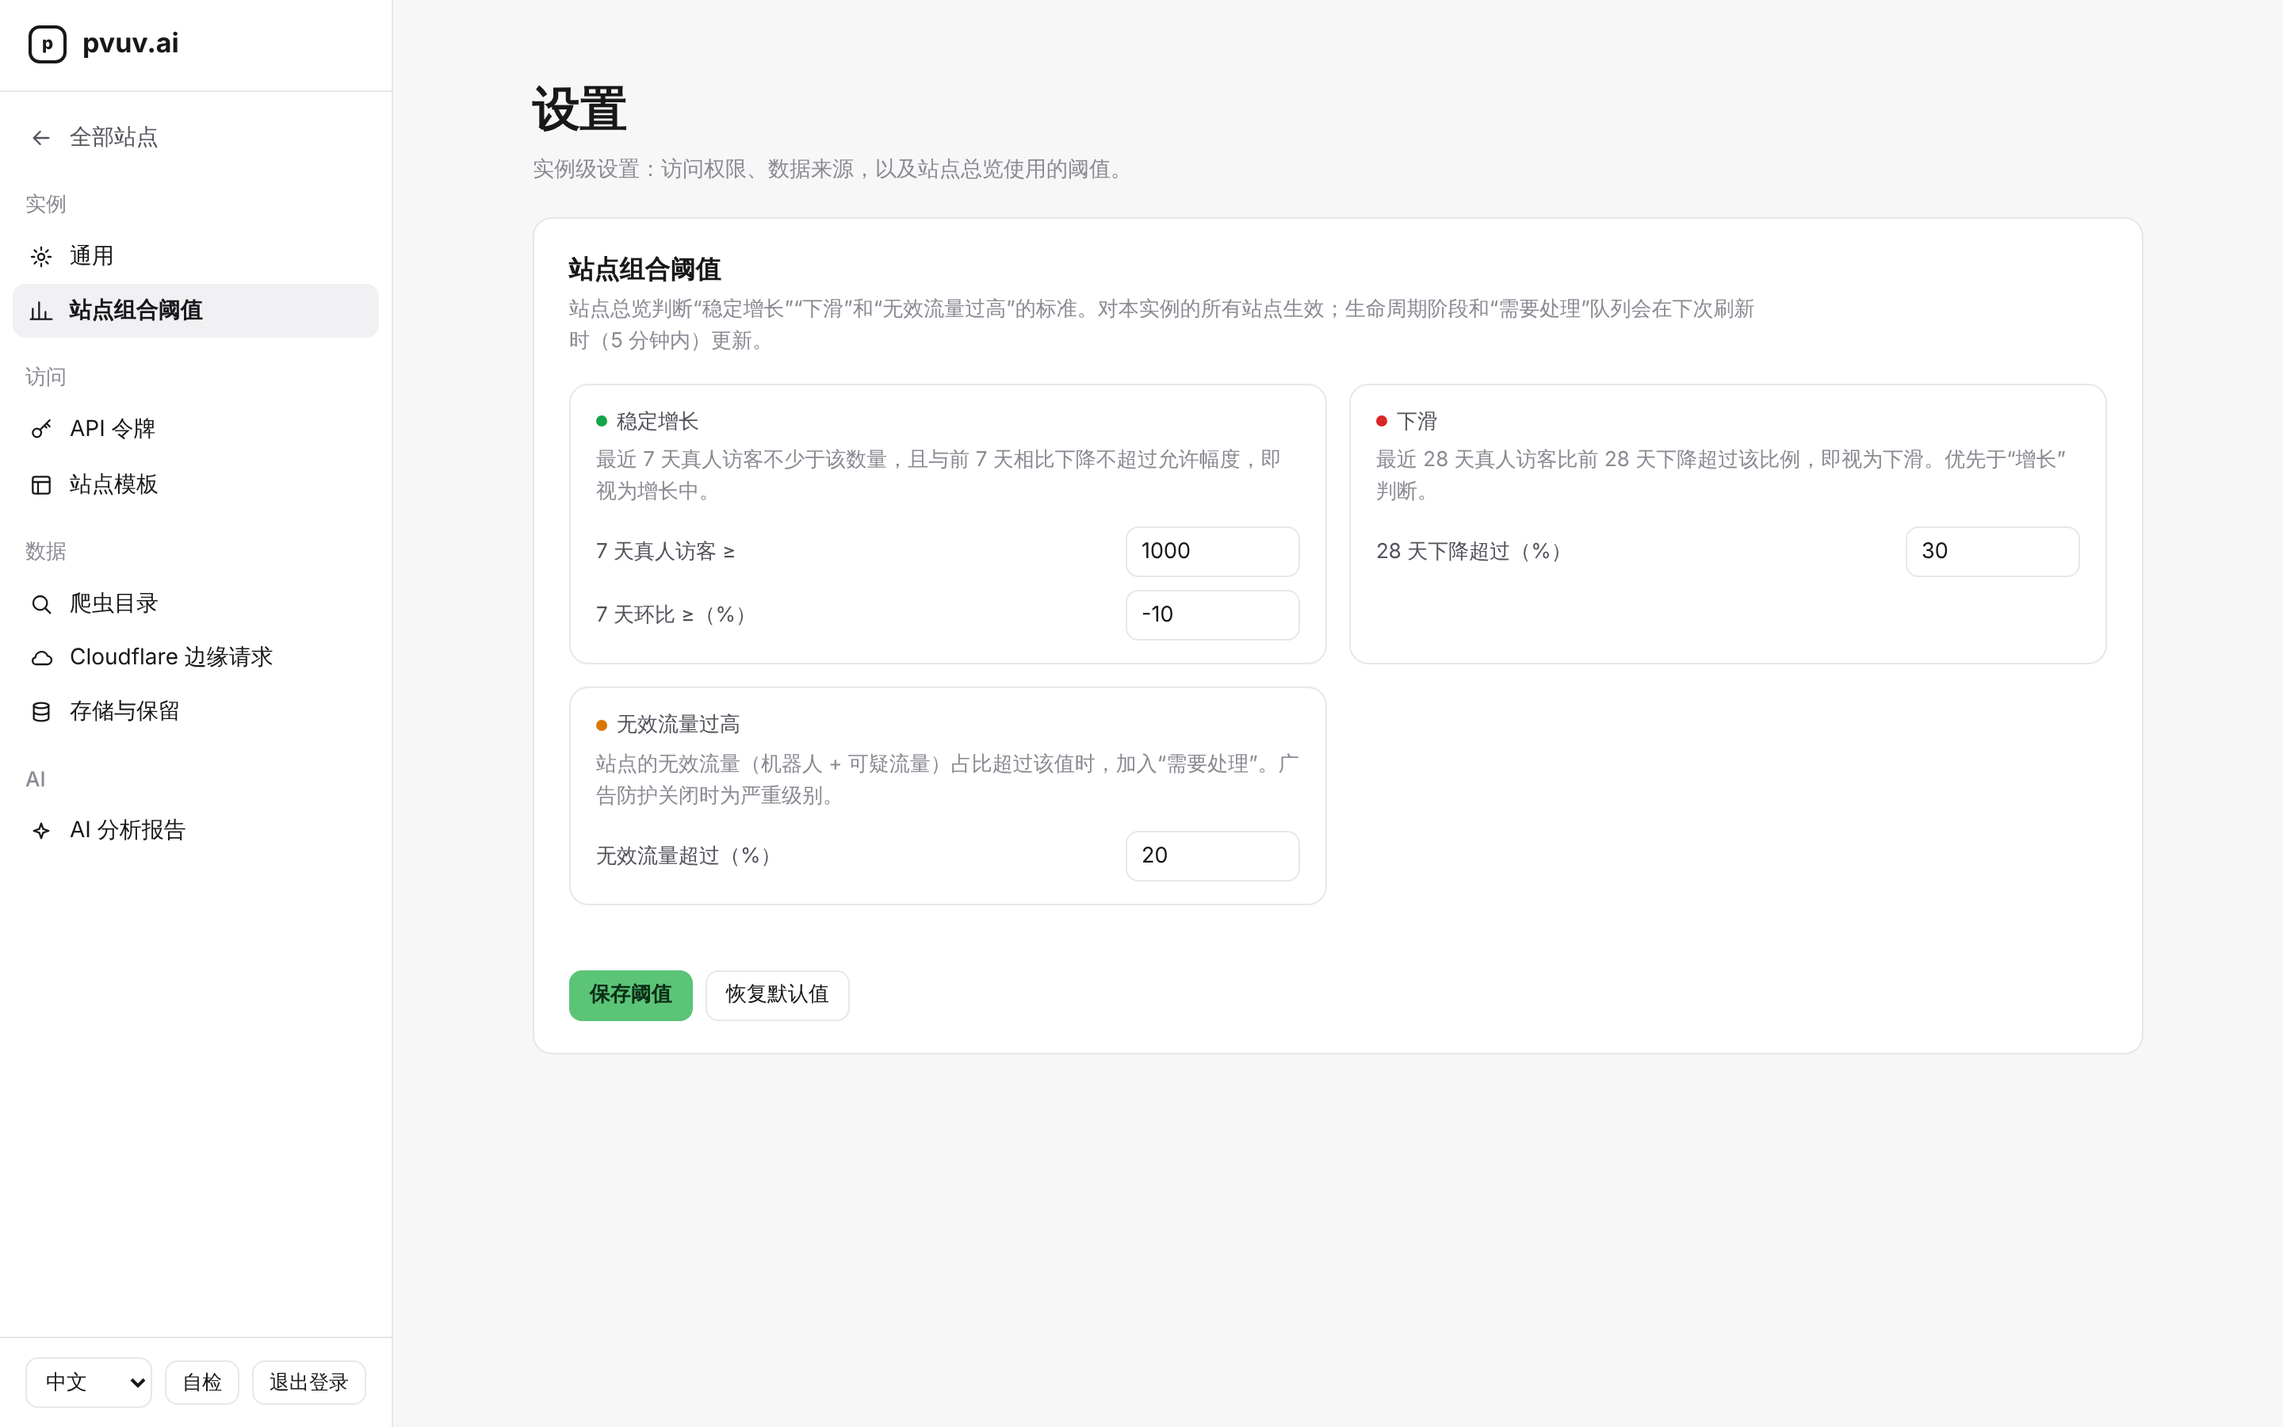
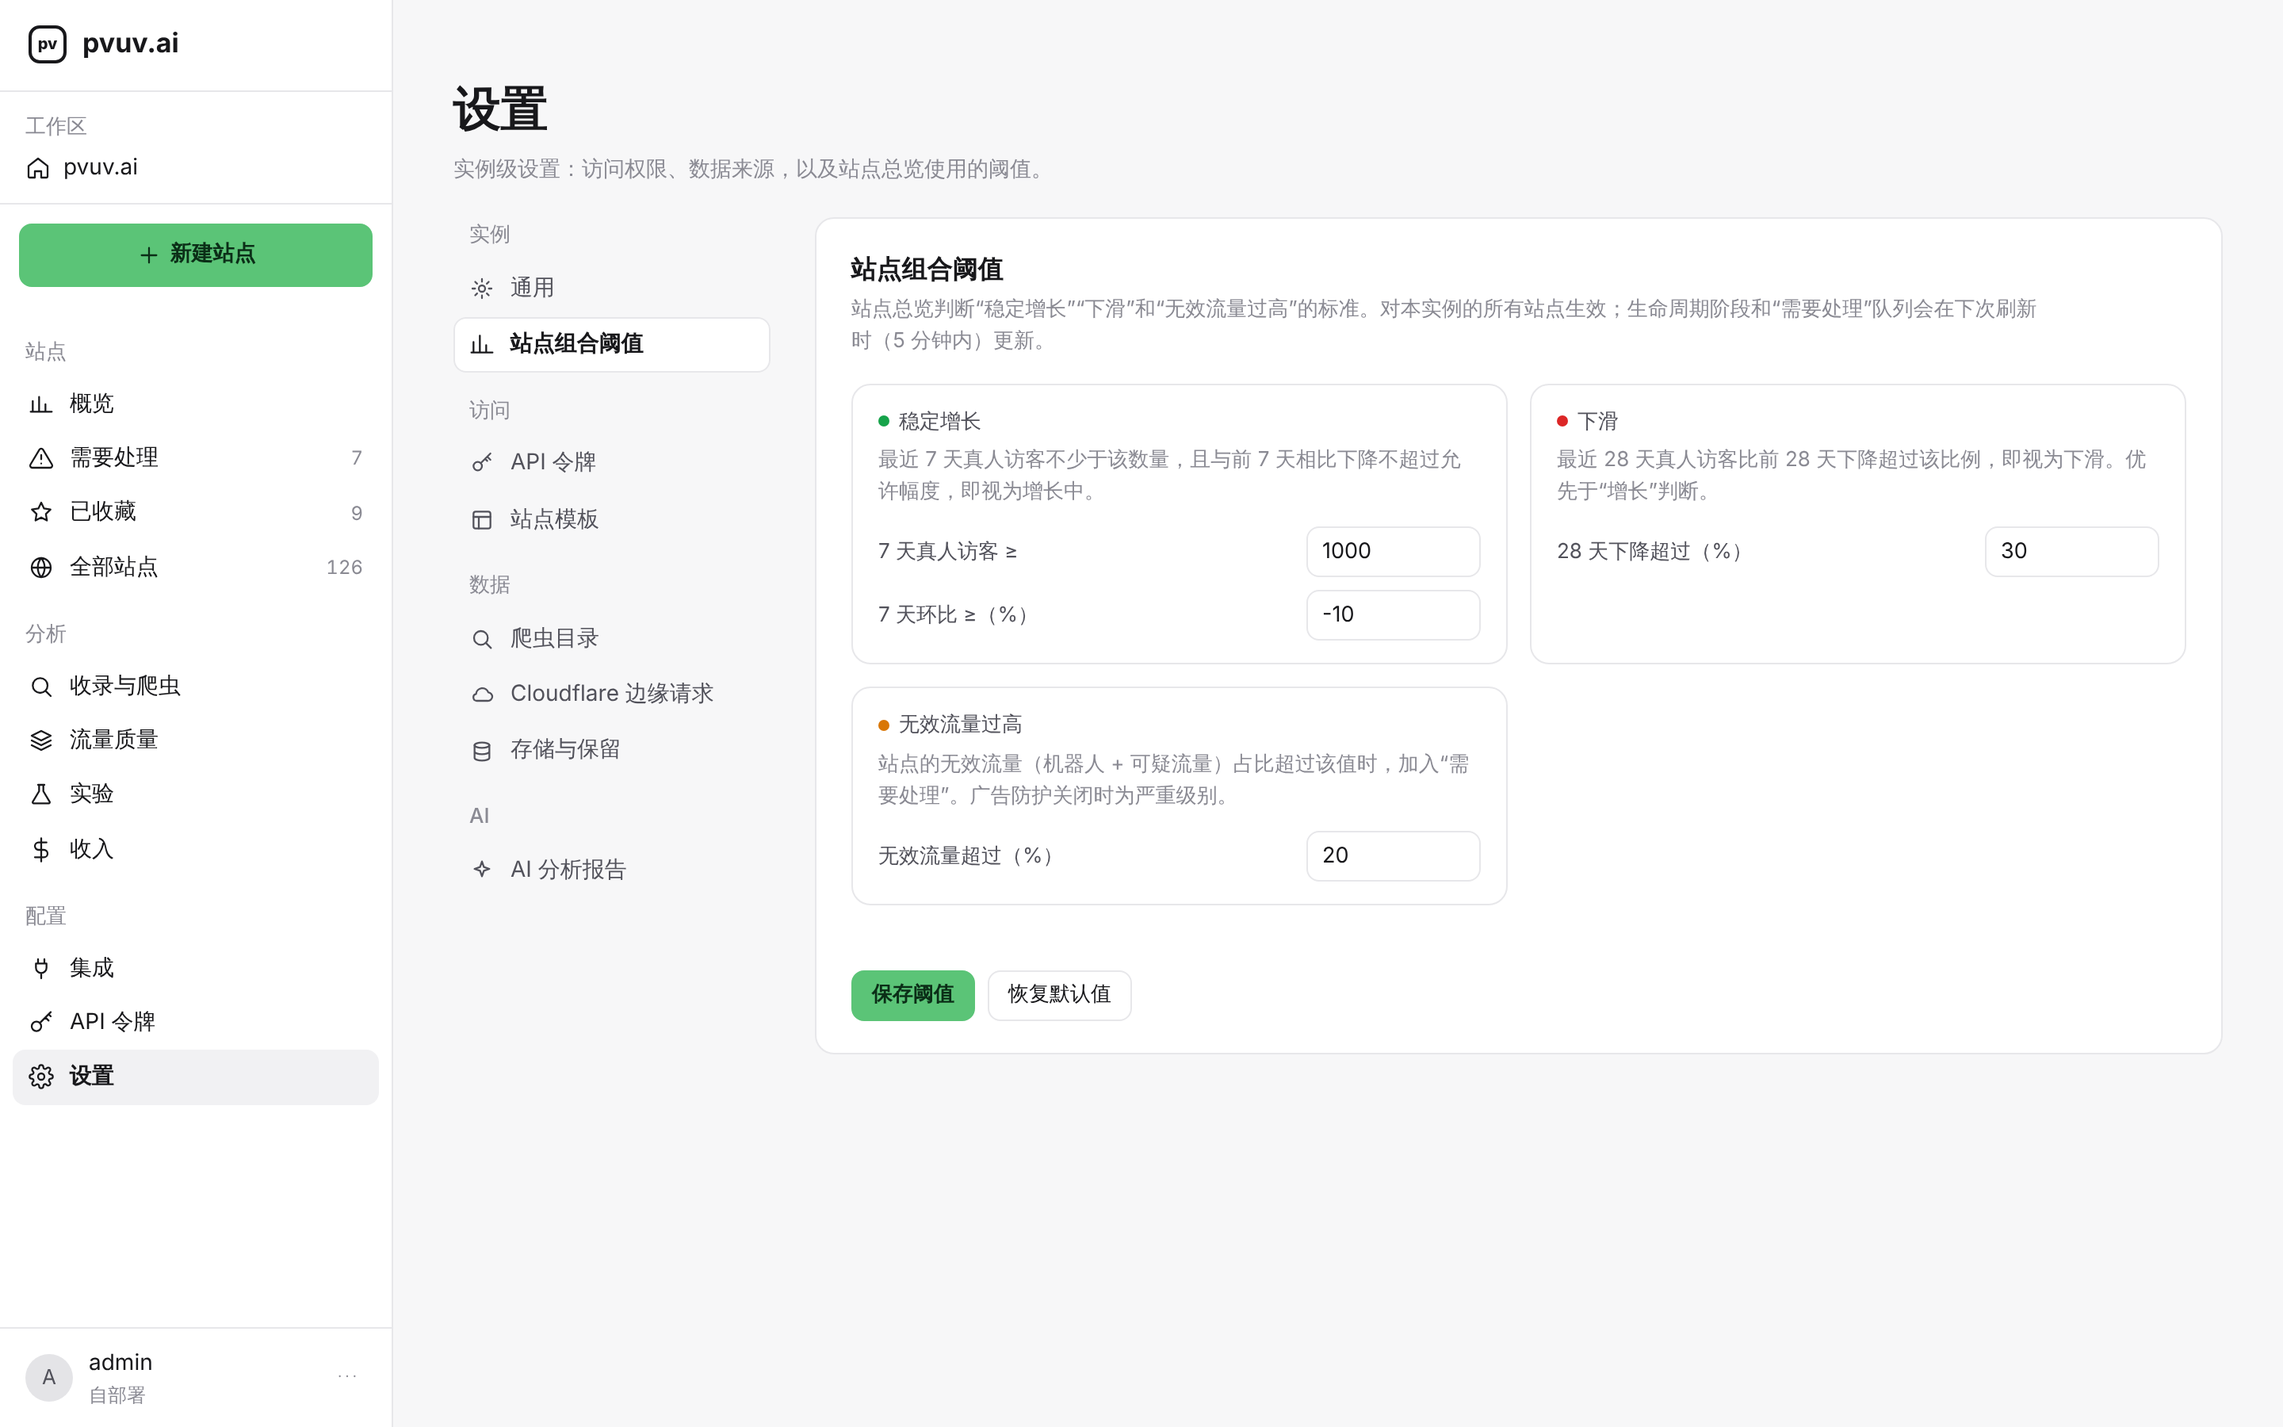
feat(console): settings page inside the shared sidebar shell
settings.html drops its own app sidebar (brand, back link, language,
self-check and sign-out now live in the shell) and keeps the section nav as
an in-page sticky column that turns into underline tabs below 900px. The
shell marks API tokens for #tokens and Settings otherwise; saving branding
clears the shell's cached brand. Screenshots re-shot, plus a narrow one.

Claude-Session: https://claude.ai/code/session_011SnvAmUq6YdQA5WC72TMqt

diff --git a/workers/console/public/settings.html b/workers/console/public/settings.html
@@ -5,50 +5,31 @@
 <meta name="viewport" content="width=device-width, initial-scale=1">
 <title>Settings — pvuv.ai</title>
 <link rel="stylesheet" href="/console.css">
-<style>
-  /* contract light tokens (docs/design/portfolio-ui.md §1), declared here so
-   * the page renders correctly whatever console.css's :root holds */
-  body.p2-set {
-    --bg:#f7f7f8; --surface:#fff; --line:#e7e7ea; --line-soft:#f0f0f2;
-    --text:#18181b; --text-2:#52525b; --mut:#8a8a93;
-    --accent:#3b82f6; --accent-soft:#eaf1fe; --track:#ececef;
-    --cta:#5bc477; --cta-text:#0b2e17;
-    --up:#16a34a; --down:#dc2626; --warn:#d97706;
-    --radius:12px; --radius-sm:8px;
-  }
-</style>
 </head>
 <body class="p2-set">
 <script src="/i18n.js"></script>
+<script src="/js/cmdk.js"></script>
+<script src="/js/shell.js"></script>
 <datalist id="tzlist"></datalist>
-<div class="p2-set-app">
-  <aside class="p2-set-side">
-    <div class="p2-set-logo" id="brand"><span class="mark">pv</span>pvuv</div>
-    <nav class="p2-set-nav" id="setnav" aria-label="Settings sections">
-      <a href="/sites.html" class="back"><svg class="p2-i" viewBox="0 0 24 24" aria-hidden="true"><path d="M19 12H5M11 6l-6 6 6 6"/></svg><span data-i18n="All sites">All sites</span></a>
-      <h5 data-i18n="Instance">Instance</h5>
-      <a href="#general" data-sec="general"><svg class="p2-i" viewBox="0 0 24 24" aria-hidden="true"><circle cx="12" cy="12" r="3"/><path d="M12 3v2.5M12 18.5V21M3 12h2.5M18.5 12H21M5.6 5.6l1.8 1.8M16.6 16.6l1.8 1.8M5.6 18.4l1.8-1.8M16.6 7.4l1.8-1.8"/></svg><span data-i18n="General">General</span></a>
-      <a href="#portfolio" data-sec="portfolio"><svg class="p2-i" viewBox="0 0 24 24" aria-hidden="true"><path d="M4 20V10M10 20V4M16 20v-7M22 20H2"/></svg><span data-i18n="Portfolio thresholds">Portfolio thresholds</span></a>
-      <h5 data-i18n="Access">Access</h5>
-      <a href="#tokens" data-sec="tokens"><svg class="p2-i" viewBox="0 0 24 24" aria-hidden="true"><circle cx="8" cy="15" r="4"/><path d="M11 12l9-9M17 6l3 3M15 8l2 2"/></svg><span data-i18n="API tokens">API tokens</span></a>
-      <a href="#templates" data-sec="templates"><svg class="p2-i" viewBox="0 0 24 24" aria-hidden="true"><rect x="4" y="4" width="16" height="16" rx="2"/><path d="M4 9h16M9 9v11"/></svg><span data-i18n="Site templates">Site templates</span></a>
-      <h5 data-i18n="Data">Data</h5>
-      <a href="#botdir" data-sec="botdir"><svg class="p2-i" viewBox="0 0 24 24" aria-hidden="true"><circle cx="11" cy="11" r="6.5"/><path d="M16 16l4.5 4.5"/></svg><span data-i18n="Crawler directory">Crawler directory</span></a>
-      <a href="#cfedge" data-sec="cfedge"><svg class="p2-i" viewBox="0 0 24 24" aria-hidden="true"><path d="M7 18h10.5a4 4 0 0 0 .5-8 6 6 0 0 0-11.6 1.5A3.3 3.3 0 0 0 7 18z"/></svg><span data-i18n="Cloudflare edge requests">Cloudflare edge requests</span></a>
-      <a href="#storage" data-sec="storage"><svg class="p2-i" viewBox="0 0 24 24" aria-hidden="true"><ellipse cx="12" cy="6" rx="7" ry="2.5"/><path d="M5 6v12c0 1.4 3.1 2.5 7 2.5s7-1.1 7-2.5V6M5 12c0 1.4 3.1 2.5 7 2.5s7-1.1 7-2.5"/></svg><span data-i18n="Storage & retention">Storage &amp; retention</span></a>
-      <h5 data-i18n="AI">AI</h5>
-      <a href="#ai" data-sec="ai"><svg class="p2-i" viewBox="0 0 24 24" aria-hidden="true"><path d="M12 3.5l1.8 5.2 5.2 1.8-5.2 1.8L12 17.5l-1.8-5.2L5 10.5l5.2-1.8z"/></svg><span data-i18n="AI analysis reports">AI analysis reports</span></a>
-    </nav>
-    <div class="p2-set-foot">
-      <select id="lang" aria-label="Language"></select>
-      <a href="/health.html" class="p2-btn sm" data-i18n="Self-check">Self-check</a>
-      <button id="logout" type="button" class="p2-btn sm" data-i18n="Sign out">Sign out</button>
-    </div>
-  </aside>
-
   <main class="p2-set-main">
     <h1 data-i18n="Settings">Settings</h1>
     <p class="lead" data-i18n="settings-lead">Instance-wide settings: access, data sources and the thresholds the sites overview uses.</p>
+    <div class="p2-set-body">
+      <nav class="p2-set-nav" id="setnav" aria-label="Settings sections">
+        <h5 data-i18n="Instance">Instance</h5>
+        <a href="#general" data-sec="general"><svg class="p2-i" viewBox="0 0 24 24" aria-hidden="true"><circle cx="12" cy="12" r="3"/><path d="M12 3v2.5M12 18.5V21M3 12h2.5M18.5 12H21M5.6 5.6l1.8 1.8M16.6 16.6l1.8 1.8M5.6 18.4l1.8-1.8M16.6 7.4l1.8-1.8"/></svg><span data-i18n="General">General</span></a>
+        <a href="#portfolio" data-sec="portfolio"><svg class="p2-i" viewBox="0 0 24 24" aria-hidden="true"><path d="M4 20V10M10 20V4M16 20v-7M22 20H2"/></svg><span data-i18n="Portfolio thresholds">Portfolio thresholds</span></a>
+        <h5 data-i18n="Access">Access</h5>
+        <a href="#tokens" data-sec="tokens"><svg class="p2-i" viewBox="0 0 24 24" aria-hidden="true"><circle cx="8" cy="15" r="4"/><path d="M11 12l9-9M17 6l3 3M15 8l2 2"/></svg><span data-i18n="API tokens">API tokens</span></a>
+        <a href="#templates" data-sec="templates"><svg class="p2-i" viewBox="0 0 24 24" aria-hidden="true"><rect x="4" y="4" width="16" height="16" rx="2"/><path d="M4 9h16M9 9v11"/></svg><span data-i18n="Site templates">Site templates</span></a>
+        <h5 data-i18n="Data">Data</h5>
+        <a href="#botdir" data-sec="botdir"><svg class="p2-i" viewBox="0 0 24 24" aria-hidden="true"><circle cx="11" cy="11" r="6.5"/><path d="M16 16l4.5 4.5"/></svg><span data-i18n="Crawler directory">Crawler directory</span></a>
+        <a href="#cfedge" data-sec="cfedge"><svg class="p2-i" viewBox="0 0 24 24" aria-hidden="true"><path d="M7 18h10.5a4 4 0 0 0 .5-8 6 6 0 0 0-11.6 1.5A3.3 3.3 0 0 0 7 18z"/></svg><span data-i18n="Cloudflare edge requests">Cloudflare edge requests</span></a>
+        <a href="#storage" data-sec="storage"><svg class="p2-i" viewBox="0 0 24 24" aria-hidden="true"><ellipse cx="12" cy="6" rx="7" ry="2.5"/><path d="M5 6v12c0 1.4 3.1 2.5 7 2.5s7-1.1 7-2.5V6M5 12c0 1.4 3.1 2.5 7 2.5s7-1.1 7-2.5"/></svg><span data-i18n="Storage & retention">Storage &amp; retention</span></a>
+        <h5 data-i18n="AI">AI</h5>
+        <a href="#ai" data-sec="ai"><svg class="p2-i" viewBox="0 0 24 24" aria-hidden="true"><path d="M12 3.5l1.8 5.2 5.2 1.8-5.2 1.8L12 17.5l-1.8-5.2L5 10.5l5.2-1.8z"/></svg><span data-i18n="AI analysis reports">AI analysis reports</span></a>
+      </nav>
+      <div class="p2-set-secs">
 
     <!-- ── General: branding + default timezone ─────────────────────────── -->
     <section class="p2-set-sec" id="sec-general" data-sec="general">
@@ -221,8 +202,9 @@
         <div class="actions"><button type="submit" class="p2-btn primary" data-i18n="Save AI settings">Save AI settings</button></div>
       </form>
     </section>
+      </div>
+    </div>
   </main>
-</div>
 <script>
 // Instance settings — moved out of the old sites.html ⚙ panel, one section per
 // nav entry (#hash routing). Same endpoints as before:
@@ -256,7 +238,7 @@ function show(sec, force) {
   document.querySelectorAll('#setnav a[data-sec]').forEach((a) => {
     const on = a.dataset.sec === sec;
     a.classList.toggle('on', on);
-    if (on) a.setAttribute('aria-current', 'page'); else a.removeAttribute('aria-current');
+    if (on) { a.setAttribute('aria-current', 'page'); a.scrollIntoView({ block: 'nearest', inline: 'nearest' }); } else a.removeAttribute('aria-current');
   });
   if (force || !loaded.has(sec)) { loaded.add(sec); LOADERS[sec](); }
 }
@@ -265,8 +247,6 @@ window.addEventListener('hashchange', () => show(location.hash.slice(1)));
 // --- branding ------------------------------------------------------------------
 function applyBranding(b) {
   const name = (b.name || '').trim() || 'pvuv.ai';
-  const logo = b.logo_light || b.logo_dark;
-  $('brand').innerHTML = logo ? `<img class="logo" src="${esc(logo)}" alt="${esc(name)}">` : `<span class="mark">${esc(Array.from(name)[0].toLowerCase())}</span>${esc(name)}`;
   document.title = t('Settings') + ' — ' + name;
   if (b.favicon) {
     let link = document.querySelector('link[rel="icon"]');
@@ -293,7 +273,11 @@ $('homeSettings').addEventListener('submit', async (e) => {
     logo_light: $('hsLogoLight').value, logo_dark: $('hsLogoDark').value, favicon: $('hsFavicon').value,
   });
   say($('hsMsg'), r.ok ? t('saved') : t('save failed'), r.ok);
-  if (r.ok) loadHomeSettings();
+  if (r.ok) {
+    // the sidebar caches the brand for 5 minutes; drop it so the new name/logo shows on the next page
+    try { sessionStorage.removeItem('pvuv.shell.v1'); } catch { /* storage blocked */ }
+    loadHomeSettings();
+  }
 });
 
 // --- default timezone ------------------------------------------------------------
@@ -581,14 +565,9 @@ $('aiSettings').addEventListener('submit', async (e) => {
   if (r.ok) { $('aiKey').value = ''; loadAiSettings(); }
 });
 
-$('logout').addEventListener('click', async () => {
-  await fetch('/api/logout', { method: 'POST' });
-  location.href = '/login.html';
-});
 
 // language switcher: re-apply static labels and reload the open section's
 // dynamic text (key-state hints, tables)
-window.PVI18N.mountSelect($('lang'));
 window.PVI18N.applyStatic();
 document.addEventListener('pvuv:lang', () => {
   window.PVI18N.applyStatic();

diff --git a/workers/console/public/console.css b/workers/console/public/console.css
@@ -452,19 +452,17 @@ svg.spark { display: block; overflow: visible; }
 /* settings.html */
 body.p2-set { margin: 0; background: var(--p2-bg); color: var(--p2-text); font: 14px/1.45 var(--p2-font); -webkit-font-smoothing: antialiased; }
 .p2-set a { color: var(--p2-accent); }
-.p2-set-app { display: grid; grid-template-columns: 248px minmax(0, 1fr); min-height: 100vh; }
-.p2-set-side { background: var(--p2-surface); border-right: 1px solid var(--p2-line); display: flex; flex-direction: column; position: sticky; top: 0; height: 100vh; }
-.p2-set-logo { display: flex; align-items: center; gap: 10px; padding: 16px 18px; font-weight: 650; font-size: 17px; border-bottom: 1px solid var(--p2-line); }
-.p2-set-logo .mark { width: 24px; height: 24px; border-radius: 7px; border: 2px solid var(--p2-text); display: grid; place-items: center; font-size: 11px; font-weight: 800; }
-.p2-set-logo img.logo { height: 24px; display: block; }
-.p2-set-nav { padding: 4px 8px; flex: 1; overflow: auto; }
-.p2-set-nav h5 { margin: 16px 8px 6px; font-size: 13px; font-weight: 500; color: var(--p2-mut); }
-.p2-set-nav a { display: flex; align-items: center; gap: 10px; padding: 7px 10px; border-radius: var(--p2-r-sm); color: var(--p2-text); text-decoration: none; }
-.p2-set-nav a:hover { background: #f7f7f8; text-decoration: none; }
-.p2-set-nav a.on { background: #f1f1f3; font-weight: 600; }
-.p2-set-foot { padding: 12px 16px; border-top: 1px solid var(--p2-line); display: flex; gap: 8px; align-items: center; }
-.p2-set-foot select { flex: 1; min-width: 0; border: 1px solid var(--p2-line); border-radius: var(--p2-r-sm); background: var(--p2-surface); color: var(--p2-text); padding: 5px 8px; font: 13px var(--p2-font); }
-.p2-set-main { padding: 26px 32px 48px; min-width: 0; max-width: 1080px; }
+/* in-page section nav: sticky left column inside the content area (the app
+ * sidebar is the shared shell); underline tabs below 900px */
+.p2-set-body { display: grid; grid-template-columns: 200px minmax(0, 1fr); gap: 28px; align-items: start; }
+.p2-set-nav { position: sticky; top: 20px; display: flex; flex-direction: column; gap: 1px; }
+.p2-set-nav h5 { margin: 14px 10px 6px; font-size: 13px; font-weight: 500; color: var(--p2-mut); }
+.p2-set-nav h5:first-child { margin-top: 2px; }
+.p2-set-nav a { display: flex; align-items: center; gap: 10px; padding: 7px 10px; border-radius: var(--p2-r-sm); color: var(--p2-text-2); text-decoration: none; }
+.p2-set-nav a:hover { background: #f1f1f3; color: var(--p2-text); text-decoration: none; }
+.p2-set-nav a.on { background: var(--p2-surface); box-shadow: inset 0 0 0 1px var(--p2-line); color: var(--p2-text); font-weight: 600; }
+.p2-set-secs { min-width: 0; }
+.p2-set-main { padding: 26px 32px 48px; min-width: 0; max-width: 1180px; }
 .p2-set-main h1 { font-size: 30px; font-weight: 650; letter-spacing: -.01em; margin: 0 0 6px; }
 .p2-set-main .lead { color: var(--p2-mut); font-size: 13.5px; margin: 0 0 20px; }
 .p2-set-sec { border-radius: var(--p2-r); background: var(--p2-surface); border: 1px solid var(--p2-line); padding: 20px 22px; margin-bottom: 16px; }
@@ -515,11 +513,20 @@ a.p2-btn.primary, .p2-set a.p2-btn.primary { color: var(--p2-cta-text); }
 .p2-set select, .p2-bulk select { padding-right: 8px; }
 .p2-set input[type="file"] { border: 0; padding: 4px 0; }
 .p2-set .p2-btn:hover, .p2-drawer .p2-btn:hover { text-decoration: none; }
-.p2-set-nav .back { color: var(--p2-text-2); margin-top: 8px; }
-@media (max-width: 820px) {
-  .p2-set-app { grid-template-columns: 1fr; } .p2-set-side { position: static; height: auto; }
-  .p2-set-nav { display: flex; flex-wrap: wrap; } .p2-set-nav h5 { display: none; }
+@media (max-width: 900px) {
+  .p2-set-main { padding: 20px 16px 40px; }
+  .p2-set-main h1 { font-size: 24px; }
+  .p2-set-sec { padding: 16px; }
+  .p2-set-body { grid-template-columns: 1fr; gap: 16px; }
+  .p2-set-nav { position: static; flex-direction: row; gap: 22px; overflow-x: auto; border-bottom: 1px solid var(--p2-line); scrollbar-width: none; }
+  .p2-set-nav::-webkit-scrollbar { display: none; }
+  .p2-set-nav h5, .p2-set-nav a .p2-i { display: none; }
+  .p2-set-nav a { padding: 0 2px 10px; border-radius: 0; white-space: nowrap; flex: none; background: none; }
+  .p2-set-nav a:hover { background: none; }
+  .p2-set-nav a.on { background: none; box-shadow: inset 0 -2px 0 var(--p2-text); }
   .p2-form, .p2-thr { grid-template-columns: 1fr; } .p2-cards4 { grid-template-columns: 1fr 1fr; } .p2-kpis { grid-template-columns: 1fr 1fr; }
+  .p2-list table, .p2-list tbody, .p2-list tr { display: block; } .p2-list td { display: inline-block; border: 0; padding: 3px 8px 3px 0; }
+  .p2-list tr { border-top: 1px solid var(--p2-line-soft); padding: 8px 0; }
 }
 /* /portfolio:p2 */
 /* portfolio:p3 ─ integrations page (integrations.html) + external-data status.
